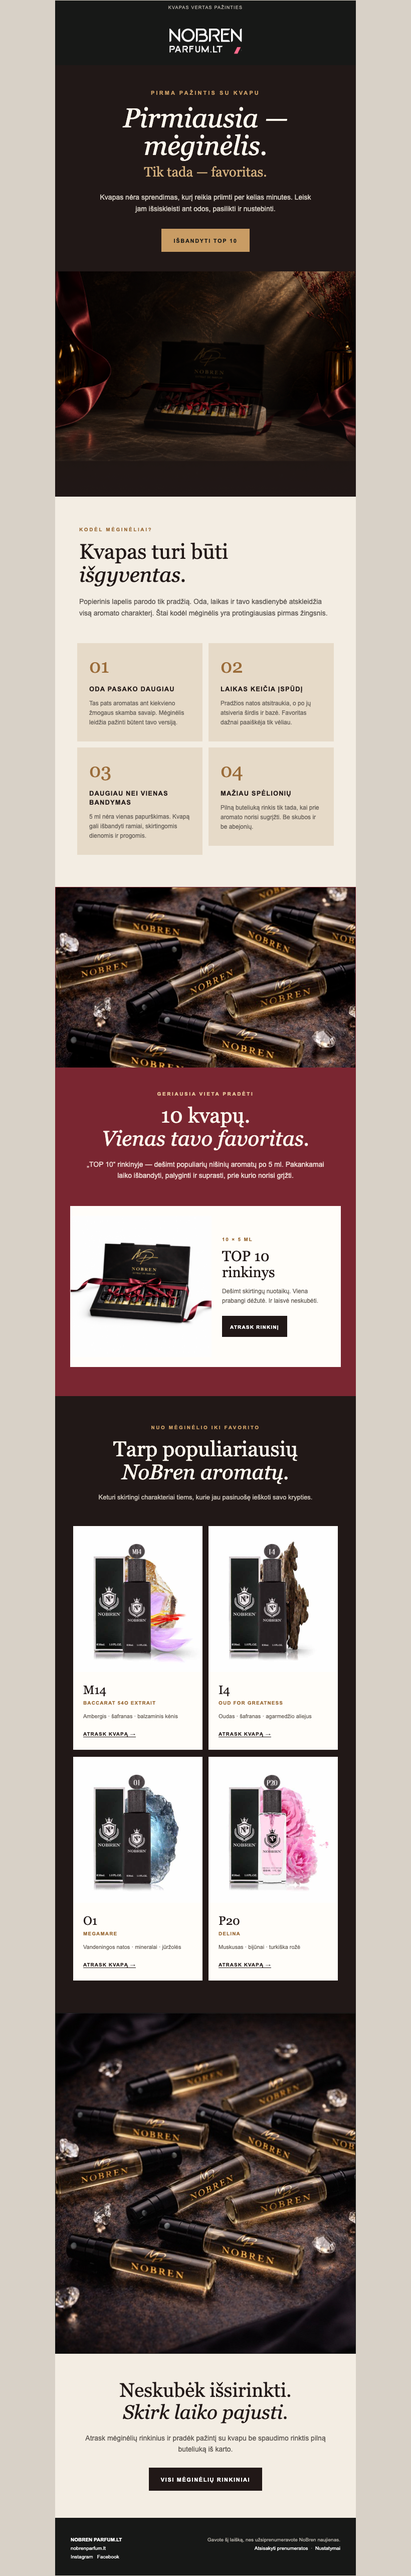
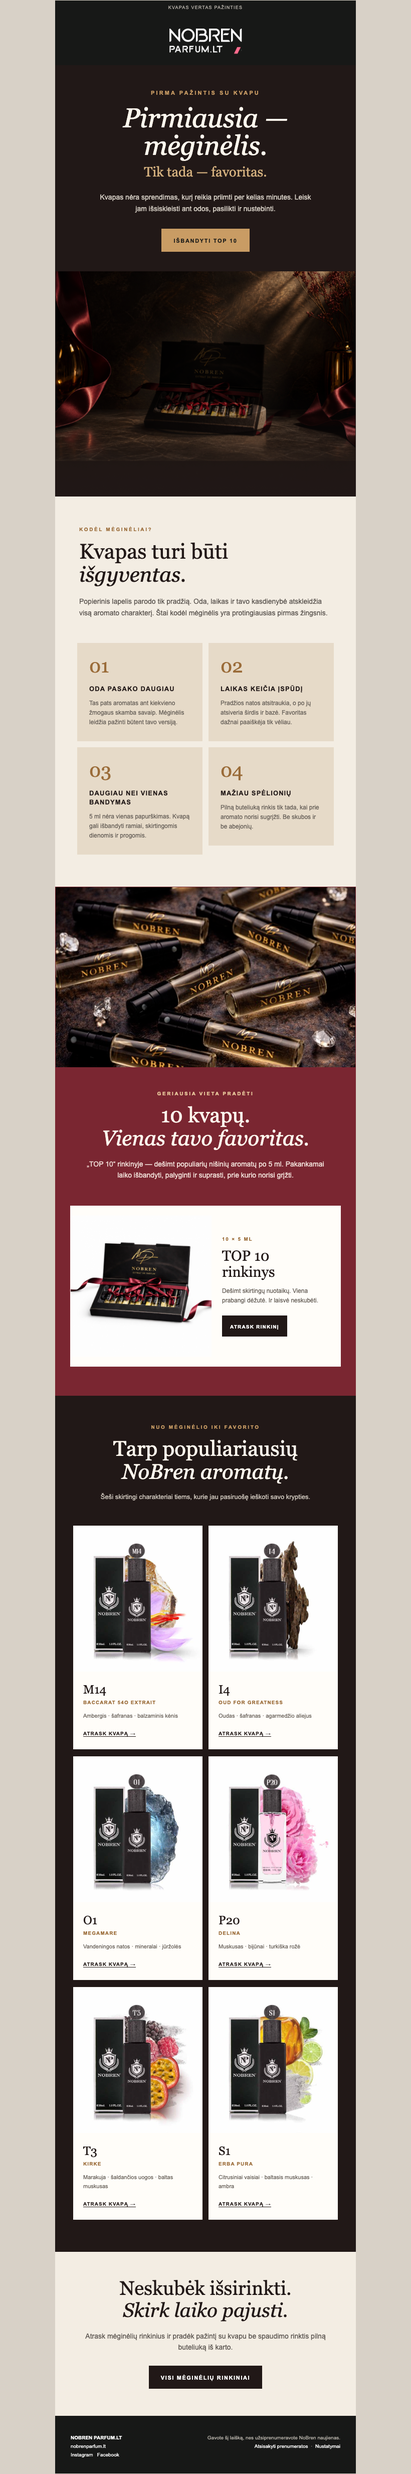
Expand samples campaign to six bestsellers

diff --git a/campaigns/2026-08-kodel-megineliai/newsletter.html b/campaigns/2026-08-kodel-megineliai/newsletter.html
@@ -134,7 +134,7 @@
           <td class="px" align="center" bgcolor="#211817" style="padding:55px 48px 31px">
             <div class="sans" style="font-size:10px;line-height:15px;letter-spacing:2.6px;font-weight:bold;color:#c99c64">NUO MĖGINĖLIO IKI FAVORITO</div>
             <div class="serif section-title" style="padding-top:12px;font-size:42px;line-height:46px;color:#fff8ee">Tarp populiariausių<br><i>NoBren aromatų.</i></div>
-            <div class="sans" style="padding-top:17px;font-size:13px;line-height:21px;color:#c9c1b7">Keturi skirtingi charakteriai tiems, kurie jau pasiruošę ieškoti savo krypties.</div>
+            <div class="sans" style="padding-top:17px;font-size:13px;line-height:21px;color:#c9c1b7">Šeši skirtingi charakteriai tiems, kurie jau pasiruošę ieškoti savo krypties.</div>
           </td>
         </tr>
         <tr>
@@ -177,13 +177,29 @@
                   </td></tr></table>
                 </td>
               </tr>
+              <tr class="stack"><td colspan="2" class="stack-gap" height="0" style="font-size:0;line-height:0">&nbsp;</td></tr>
+              <tr class="stack">
+                <td width="50%" valign="top" style="padding:6px">
+                  <table role="presentation" width="100%" bgcolor="#fffdf9"><tr><td style="font-size:0;line-height:0"><img class="product-img" src="assets/products/t3.jpg" width="258" alt="NoBren Kirke T3" style="width:100%;height:auto"></td></tr><tr><td style="padding:21px 20px 24px">
+                    <div class="serif" style="font-size:24px;line-height:27px;color:#211817">T3</div>
+                    <div class="sans" style="padding-top:5px;font-size:10px;line-height:15px;letter-spacing:1.1px;font-weight:bold;color:#9a6b38">KIRKE</div>
+                    <div class="sans" style="padding-top:10px;font-size:11px;line-height:18px;color:#655e57">Marakuja · šaldančios uogos · baltas muskusas</div>
+                    <div style="padding-top:16px"><a href="https://nobrenparfum.lt/lt/nisiniai-kvepalai/-ikvepti-kirke-nisiniai-kvepalai-unisex-t3.html" target="_blank" class="sans" style="font-size:10px;line-height:14px;letter-spacing:1px;font-weight:bold;color:#211817;border-bottom:1px solid #211817">ATRASK KVAPĄ →</a></div>
+                  </td></tr></table>
+                </td>
+                <td width="50%" valign="top" style="padding:6px">
+                  <table role="presentation" width="100%" bgcolor="#fffdf9"><tr><td style="font-size:0;line-height:0"><img class="product-img" src="assets/products/s1.jpg" width="258" alt="NoBren Erba Pura S1" style="width:100%;height:auto"></td></tr><tr><td style="padding:21px 20px 24px">
+                    <div class="serif" style="font-size:24px;line-height:27px;color:#211817">S1</div>
+                    <div class="sans" style="padding-top:5px;font-size:10px;line-height:15px;letter-spacing:1.1px;font-weight:bold;color:#9a6b38">ERBA PURA</div>
+                    <div class="sans" style="padding-top:10px;font-size:11px;line-height:18px;color:#655e57">Citrusiniai vaisiai · baltasis muskusas · ambra</div>
+                    <div style="padding-top:16px"><a href="https://nobrenparfum.lt/lt/nisiniai-kvepalai/-ikvepti-ebra-pura-nisiniai-kvepalai-unisex-s1.html" target="_blank" class="sans" style="font-size:10px;line-height:14px;letter-spacing:1px;font-weight:bold;color:#211817;border-bottom:1px solid #211817">ATRASK KVAPĄ →</a></div>
+                  </td></tr></table>
+                </td>
+              </tr>
             </table>
           </td>
         </tr>
 
-        <tr>
-          <td style="font-size:0;line-height:0" bgcolor="#171817"><img src="assets/samples/samples-lifestyle.png" width="600" alt="NoBren kvapų mėginėliai" style="width:100%;height:auto"></td>
-        </tr>
         <tr>
           <td class="px" align="center" bgcolor="#f3ede3" style="padding:51px 48px 54px">
             <div class="serif section-title" style="font-size:39px;line-height:44px;color:#211817">Neskubėk išsirinkti.<br><i>Skirk laiko pajusti.</i></div>

diff --git a/campaigns/2026-08-kodel-megineliai/BRAND_NOTES.md b/campaigns/2026-08-kodel-megineliai/BRAND_NOTES.md
@@ -10,9 +10,10 @@
 
 ## Turinys
 
-- Bestseleriai: M14, I4, O1 ir P20.
+- Bestseleriai: M14, I4, O1, P20, T3 ir S1.
 - Naudojamos tik oficialios NoBren produktų nuotraukos.
 - Hero aplinka sukurta originaliai; produkto pakuotė įkomponuota iš oficialios nuotraukos, todėl jos ženklinimas nekeistas.
+- Apatinė pasikartojanti mėginėlių fotografija pašalinta, kad kampanijoje kiekvienas vizualas atliktų atskirą funkciją.
 
 ## Klaviyo
 
